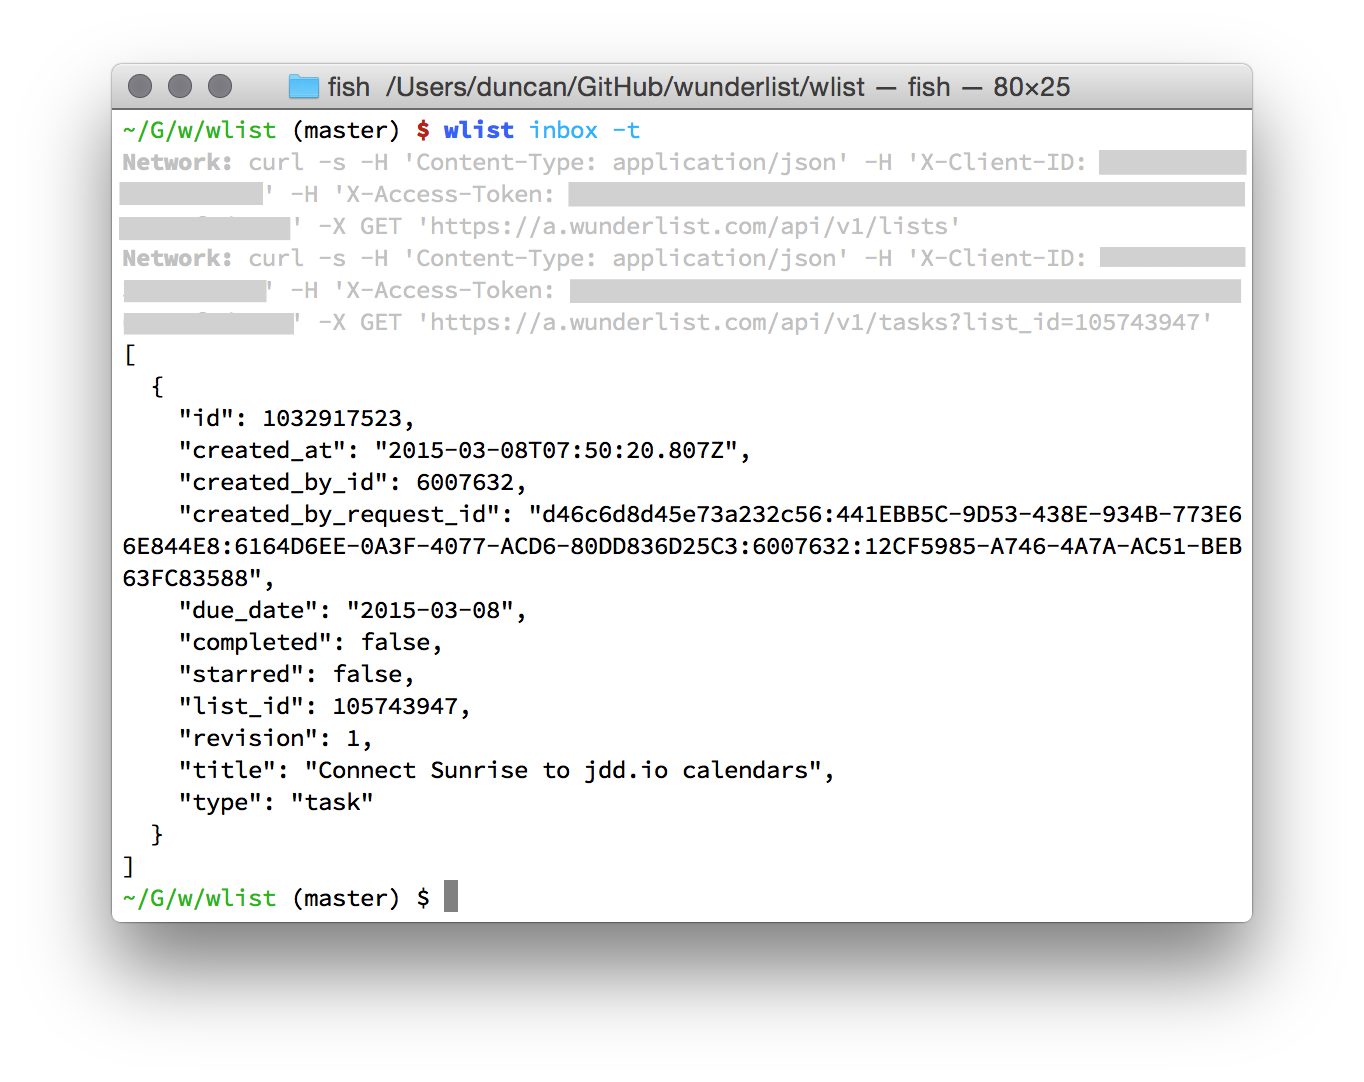
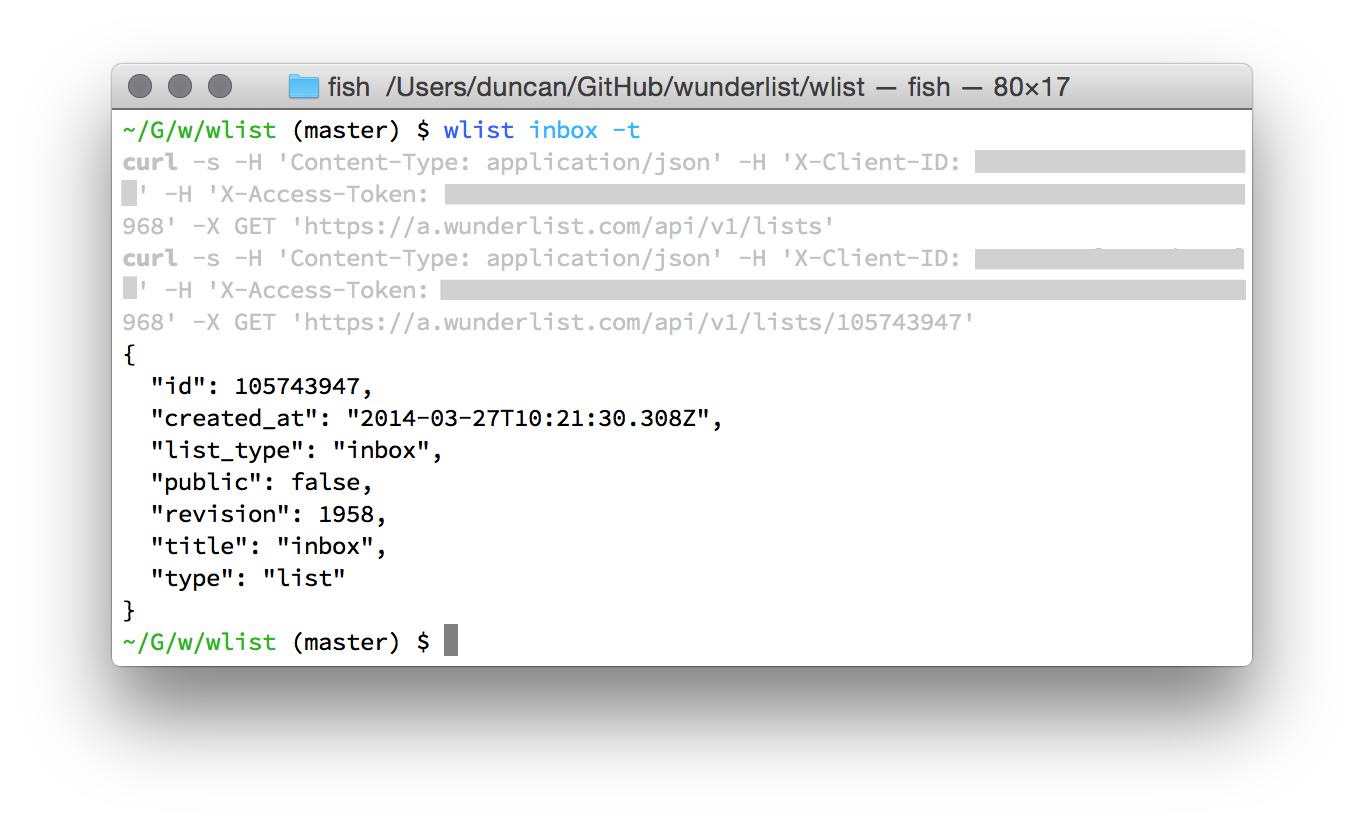
Update curl output in trace

Changed region(s): [[0.0616, 0.0605, 0.9238, 0.908]]

diff --git a/lib/wlist.rb b/lib/wlist.rb
@@ -59,16 +59,14 @@ end
 # NETWORK ACCESS METHODS
 
 def curl(url, method="GET", data=nil, headers=access_headers, quiet=false)
-  if data == nil
-    cmd = "curl -s #{headers} -X #{method} '#{url}'"
-  else
-    cmd = "curl -s #{headers} -X #{method} -d '#{JSON.generate(data)}' '#{url}'"
-  end
+  cmd = "-s #{headers}"
+  cmd << " -d '#{JSON.generate(data)}'" if data != nil
+  cmd << " -X #{method} '#{url}'"
 
   if !quiet and OPTIONS[:trace]
-    puts "Network: ".gray.bold + cmd.gray
+    puts "curl ".gray.bold + cmd.gray
   end
-  response = `#{cmd}`
+  response = `curl #{cmd}`
 end
 
 def get(path)
